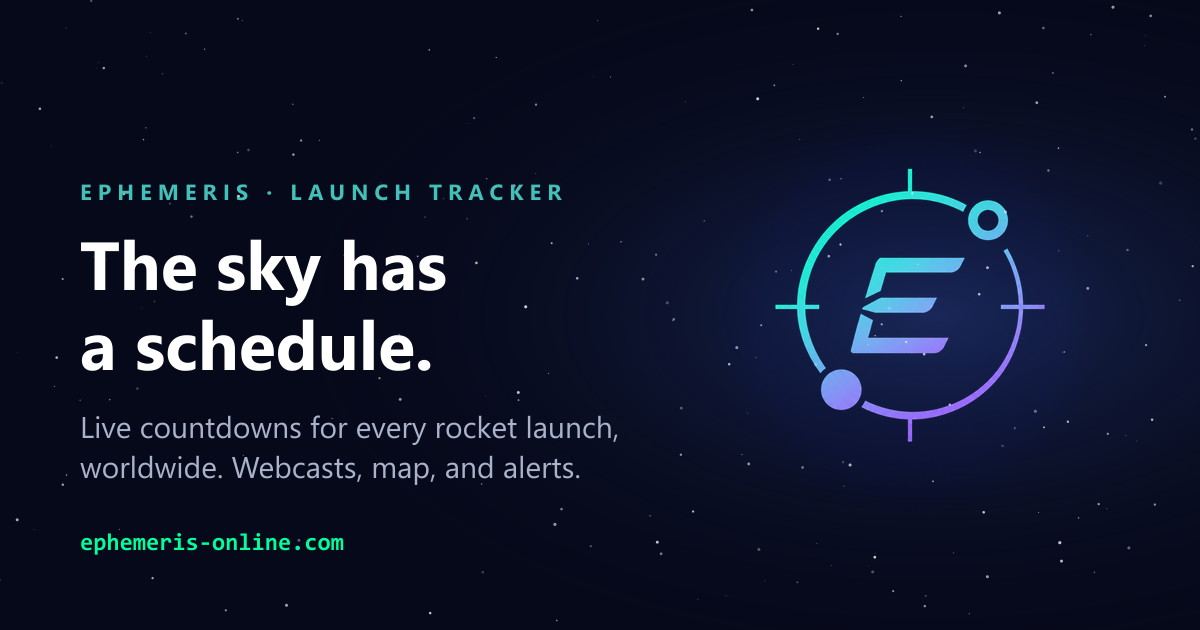
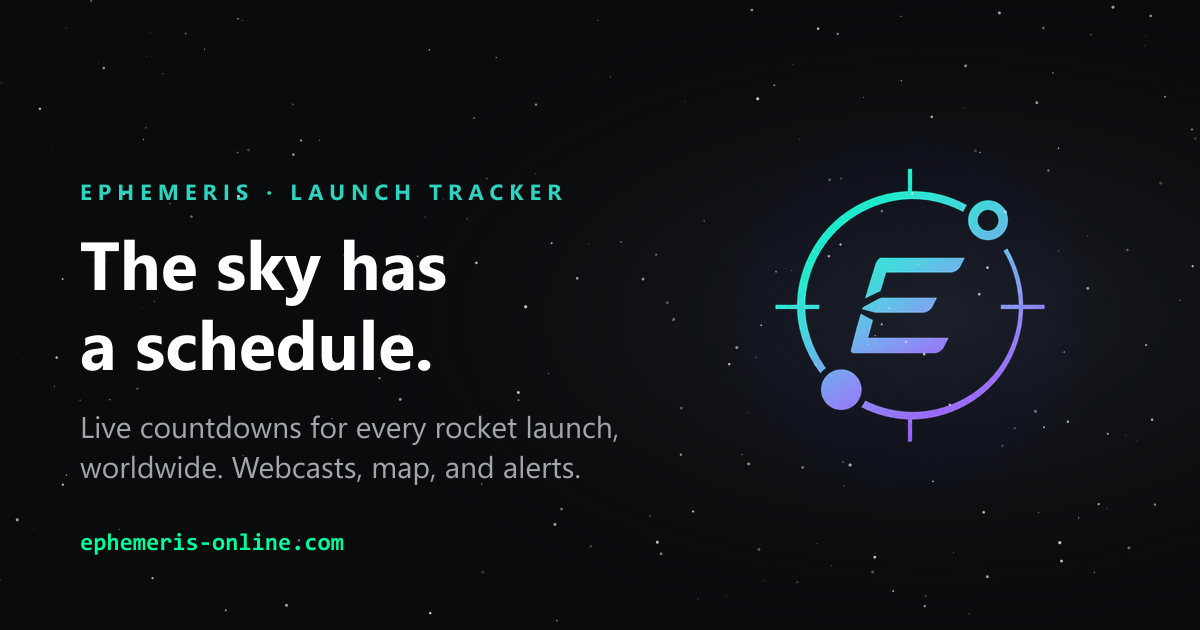
Adopt the mission black palette and dim the HAL terminal button
Surfaces move to near-neutral black and graphite (#0A0B0D / #131518 /
#1B1E22) so launch photography carries the color, text to neutral white
and gray, and the brand to a vivid teal (#2DD4BF). Secondary text goes
from 6.3:1 to 8.1:1 on the page background.

Both accent ramps are anchored at 200, the shade Chakra's dark-mode
buttons and outline text use, so buttons show the actual brand color.
Tracked launches and alerts move from stock orange to a new amber ramp
(#F5B942); orange stays for warnings like stale data and holds.

Control borders were re-derived for the new elevated fill and still
clear 3:1. The PWA theme color, manifest, and share card follow the new
background, and the card is regenerated.

HAL's eye was a glowing red dot in every page's nav, which reads as an
alarm when red is reserved for scrubs, holds, and errors. It now sits
grey and dim, lighting up on hover or keyboard focus.

Changed region(s): [[0.5242, 0.2714, 1.0, 0.754], [0.0617, 0.6635, 0.5242, 0.6937], [0.0617, 0.7238, 0.4933, 0.754]]

diff --git a/src/theme.js b/src/theme.js
@@ -1,35 +1,45 @@
 import { extendTheme } from '@chakra-ui/react';
 
 const colors = {
-  // Brand ramp built from the logo teal (#38B2AC at 500). Buttons and links
-  // inherit it via colorScheme="brand"; nothing in the app should reach for
-  // stock framework blues.
+  // Vivid brand teal (#2DD4BF), anchored at 200 because that is the shade
+  // Chakra's dark-mode buttons fill with and outline/ghost text uses. Lower
+  // shades are deeper, not brighter: 300 for links, 400 for small labels.
+  // Buttons and links inherit it via colorScheme="brand"; nothing in the app
+  // should reach for stock framework blues.
   brand: {
-    50:  '#e4faf8',
-    100: '#bff0ec',
-    200: '#93e2dc',
-    300: '#65d1c9',
-    400: '#43c0b8',
-    500: '#38B2AC',
-    600: '#2c928e',
-    700: '#227371',
-    800: '#195755',
-    900: '#113f3e',
+    50:  '#EBF9F8',
+    100: '#C7EFEA',
+    200: '#2DD4BF',
+    300: '#2DB0A0',
+    400: '#279889',
+    500: '#207F73',
+    600: '#1A665D',
+    700: '#15524A',
+    800: '#103F3A',
+    900: '#0C2F2B',
   },
-  space: {
-    900: '#03050D',
-    800: '#06091A',
-    700: '#0B1120',
-    600: '#101828',
-    500: '#182135',
-    400: '#243552',
+  // Amber (#F5B942, anchored at 200 like brand) for the things a visitor has
+  // chosen: tracked launches and the alerts that follow them. Warnings
+  // (stale data, holds) stay on Chakra's orange so the two never blur.
+  amber: {
+    50:  '#FCF5E9',
+    100: '#F7E4C0',
+    200: '#F5B942',
+    300: '#E8A624',
+    400: '#D09216',
+    500: '#AE7A12',
+    600: '#8D620F',
+    700: '#714F0C',
+    800: '#573D09',
+    900: '#412D07',
   },
   // Brand palette from the Ephemeris logo sheet. Kept as named accents so the
   // teal→purple mark colors, the terminal-green and HAL-red variants can be
   // referenced directly (e.g. bgGradient="linear(to-r, accent.teal, accent.purple)").
   accent: {
-    teal:     '#38B2AC',
-    tealLight:'#5AD4D1',
+    teal:     '#2DD4BF',
+    tealLight:'#C7EFEA',
+    amber:    '#F5B942',
     purple:   '#9F7AEA',
     terminal: '#00FF9D',
     hal:      '#FF3B30',
@@ -40,20 +50,23 @@ const colors = {
 
 const semanticTokens = {
   colors: {
-    'bg.body':     { default: '#06091A', _dark: '#06091A' },
-    'bg.card':     { default: '#0B1120', _dark: '#0B1120' },
-    'bg.elevated': { default: '#101828', _dark: '#101828' },
-    'text.primary':   { default: '#E2E8F0', _dark: '#E2E8F0' },
-    'text.secondary': { default: '#7A93B8', _dark: '#7A93B8' },
-    'border.default': { default: '#1E2D45', _dark: '#1E2D45' },
+    // Mission black: near-neutral black and graphite surfaces, so the launch
+    // photography and the teal accent carry the color, not the chrome.
+    'bg.body':     { default: '#0A0B0D', _dark: '#0A0B0D' },
+    'bg.card':     { default: '#131518', _dark: '#131518' },
+    'bg.elevated': { default: '#1B1E22', _dark: '#1B1E22' },
+    'text.primary':   { default: '#EEEEEE', _dark: '#EEEEEE' },
+    // 8.1:1 on bg.body, 6.9:1 on bg.elevated
+    'text.secondary': { default: '#A2A6AD', _dark: '#A2A6AD' },
+    'border.default': { default: '#2A2E34', _dark: '#2A2E34' },
     // Interactive controls need a brighter edge than cards do. border.default
-    // is a hairline by design — correct for panels, but only 1.33:1 against
-    // the control fill, so inputs and selects read as flat dark shapes with no
+    // is a hairline by design, correct for panels, but too faint against the
+    // control fill, so inputs and selects read as flat dark shapes with no
     // edge at all. These clear the 3:1 WCAG asks for a UI component boundary
-    // (3.25:1 and 4.83:1 against bg.elevated) without making every card shout.
-    'border.control':      { default: '#52698C', _dark: '#52698C' },
-    'border.controlHover': { default: '#6B85AC', _dark: '#6B85AC' },
-    'brand.primary':  { default: 'brand.400' },
+    // (3.55:1 and 5.2:1 against bg.elevated) without making every card shout.
+    'border.control':      { default: '#6E747D', _dark: '#6E747D' },
+    'border.controlHover': { default: '#8A9099', _dark: '#8A9099' },
+    'brand.primary':  { default: 'brand.200' },
     // Logo accents, exposed as semantic tokens for use across the UI.
     // Flight-console rules: terminal green marks LIVE data (countdowns,
     // telemetry, status dots) and nothing else; teal is for interactive
@@ -62,6 +75,8 @@ const semanticTokens = {
     'accent.secondary': { default: 'accent.purple' },
     'accent.terminal':  { default: 'accent.terminal' },
     'accent.danger':    { default: 'accent.hal' },
+    // Amber marks what the visitor chose to follow (tracked launches, alerts)
+    'accent.tracked':   { default: 'accent.amber' },
   },
 };
 
@@ -86,8 +101,8 @@ const controlField = {
   // The stock outline focus ring is blue.300 — one of the framework blues the
   // brand ramp comment above rules out.
   _focusVisible: {
-    borderColor: 'brand.400',
-    boxShadow: '0 0 0 1px var(--chakra-colors-brand-400)',
+    borderColor: 'brand.200',
+    boxShadow: '0 0 0 1px var(--chakra-colors-brand-200)',
   },
 };
 

diff --git a/scripts/make-og-image.ts b/scripts/make-og-image.ts
@@ -12,9 +12,9 @@ const root = path.resolve(path.dirname(fileURLToPath(import.meta.url)), '..');
 const W = 1200;
 const H = 630;
 
-// Matches bg.body (#06091A) and the brand teal / terminal green in theme.js
-const BG = '#06091A';
-const TEAL = '#43c0b8';
+// Matches bg.body (#0A0B0D) and the brand teal / terminal green in theme.js
+const BG = '#0A0B0D';
+const TEAL = '#2DD4BF';
 const TERMINAL = '#00ff9d';
 
 // Deterministic starfield, so re-running the script doesn't churn the PNG
@@ -34,7 +34,7 @@ const background = `
 <svg xmlns="http://www.w3.org/2000/svg" width="${W}" height="${H}">
   <defs>
     <radialGradient id="glow" cx="78%" cy="50%" r="55%">
-      <stop offset="0" stop-color="#1b2a5a" stop-opacity="0.9"/>
+      <stop offset="0" stop-color="#1E2227" stop-opacity="0.9"/>
       <stop offset="1" stop-color="${BG}" stop-opacity="0"/>
     </radialGradient>
   </defs>
@@ -48,7 +48,7 @@ const text = `
   <style>
     .eyebrow { font: 700 22px 'Segoe UI', 'Helvetica Neue', Arial, sans-serif; letter-spacing: 6px; fill: ${TEAL}; }
     .title   { font: 700 68px 'Segoe UI', 'Helvetica Neue', Arial, sans-serif; fill: #ffffff; }
-    .sub     { font: 400 30px 'Segoe UI', 'Helvetica Neue', Arial, sans-serif; fill: #a9b4cc; }
+    .sub     { font: 400 30px 'Segoe UI', 'Helvetica Neue', Arial, sans-serif; fill: #A2A6AD; }
     .url     { font: 600 24px 'Consolas', 'Menlo', monospace; fill: ${TERMINAL}; }
   </style>
   <text x="80" y="200" class="eyebrow">EPHEMERIS · LAUNCH TRACKER</text>

diff --git a/src/components/MissionTerminal.jsx b/src/components/MissionTerminal.jsx
@@ -88,9 +88,26 @@ export default function MissionTerminal() {
 
   return (
     <>
+      {/* HAL's eye stays dim and grey until hovered or focused: a glowing red
+          dot in the nav reads as an alarm, and red is reserved for real
+          problems (scrubs, holds, errors). It lights up as you reach for it. */}
       <IconButton
         ref={btnRef}
-        icon={<Box as="img" src="/hal9000.png" alt="Mission Terminal" borderRadius="full" boxSize="28px" />}
+        data-group
+        icon={
+          <Box
+            as="img"
+            src="/hal9000.png"
+            alt=""
+            borderRadius="full"
+            boxSize="28px"
+            filter="grayscale(1) brightness(0.75)"
+            opacity={0.7}
+            transition="filter 0.25s ease, opacity 0.25s ease"
+            _groupHover={{ filter: 'none', opacity: 1 }}
+            _groupFocusVisible={{ filter: 'none', opacity: 1 }}
+          />
+        }
         variant="ghost"
         colorScheme="green"
         onClick={onOpen}

diff --git a/src/components/TrackButton.tsx b/src/components/TrackButton.tsx
@@ -27,8 +27,8 @@ export default function TrackButton({ launch, size = 'sm' }: TrackButtonProps) {
         icon={tracked ? <FaStar /> : <FaRegStar />}
         size={size}
         variant="ghost"
-        color={tracked ? 'orange.400' : 'text.secondary'}
-        _hover={{ color: 'orange.300', bg: 'whiteAlpha.100' }}
+        color={tracked ? 'accent.tracked' : 'text.secondary'}
+        _hover={{ color: 'amber.100', bg: 'whiteAlpha.100' }}
         onClick={(e) => {
           e.stopPropagation();
           toggleFavorite(launch.id);

diff --git a/index.html b/index.html
@@ -14,7 +14,7 @@
     <link rel="icon" type="image/png" href="/icons/icon-64.png" />
     <link rel="apple-touch-icon" href="/icons/apple-touch-icon.png" />
     <meta name="viewport" content="width=device-width, initial-scale=1.0" />
-    <meta name="theme-color" content="#06091A" />
+    <meta name="theme-color" content="#0A0B0D" />
     <meta
       name="description"
       content="Track rocket launches worldwide: live countdowns, a world launch map, tracked-launch alerts, and calendar export."

diff --git a/vite.config.js b/vite.config.js
@@ -80,8 +80,8 @@ export default defineConfig({
         short_name: 'Ephemeris',
         description:
           'Track rocket launches worldwide: live countdowns, a world launch map, tracked-launch alerts, and calendar export.',
-        theme_color: '#06091A',
-        background_color: '#06091A',
+        theme_color: '#0A0B0D',
+        background_color: '#0A0B0D',
         display: 'standalone',
         start_url: '/',
         scope: '/',

diff --git a/src/components/LaunchFilters.tsx b/src/components/LaunchFilters.tsx
@@ -101,7 +101,7 @@ export default function LaunchFilters({ state, trackingControls }: LaunchFilters
             <Button
               size="sm"
               variant={values.tracked === '1' ? 'solid' : 'outline'}
-              colorScheme="orange"
+              colorScheme="amber"
               leftIcon={<Icon as={FaStar} boxSize={3} />}
               onClick={() => setFilter('tracked', values.tracked === '1' ? '' : '1')}
             >

diff --git a/src/components/AlertSettings.tsx b/src/components/AlertSettings.tsx
@@ -64,7 +64,7 @@ export default function AlertSettings() {
         iconSpacing={{ base: 0, sm: 2 }}
         size="sm"
         variant={enabled ? 'solid' : 'outline'}
-        colorScheme="orange"
+        colorScheme="amber"
         onClick={() => (enabled ? setEnabled(false) : enableAlerts())}
       >
         <Box as="span" display={{ base: 'none', sm: 'inline' }}>

diff --git a/src/components/Footer.tsx b/src/components/Footer.tsx
@@ -89,7 +89,7 @@ export default function Footer() {
                 as={RouterLink}
                 to="/launches"
                 size="sm"
-                colorScheme="orange"
+                colorScheme="amber"
                 variant="outline"
                 leftIcon={<FaRegStar />}
               >
